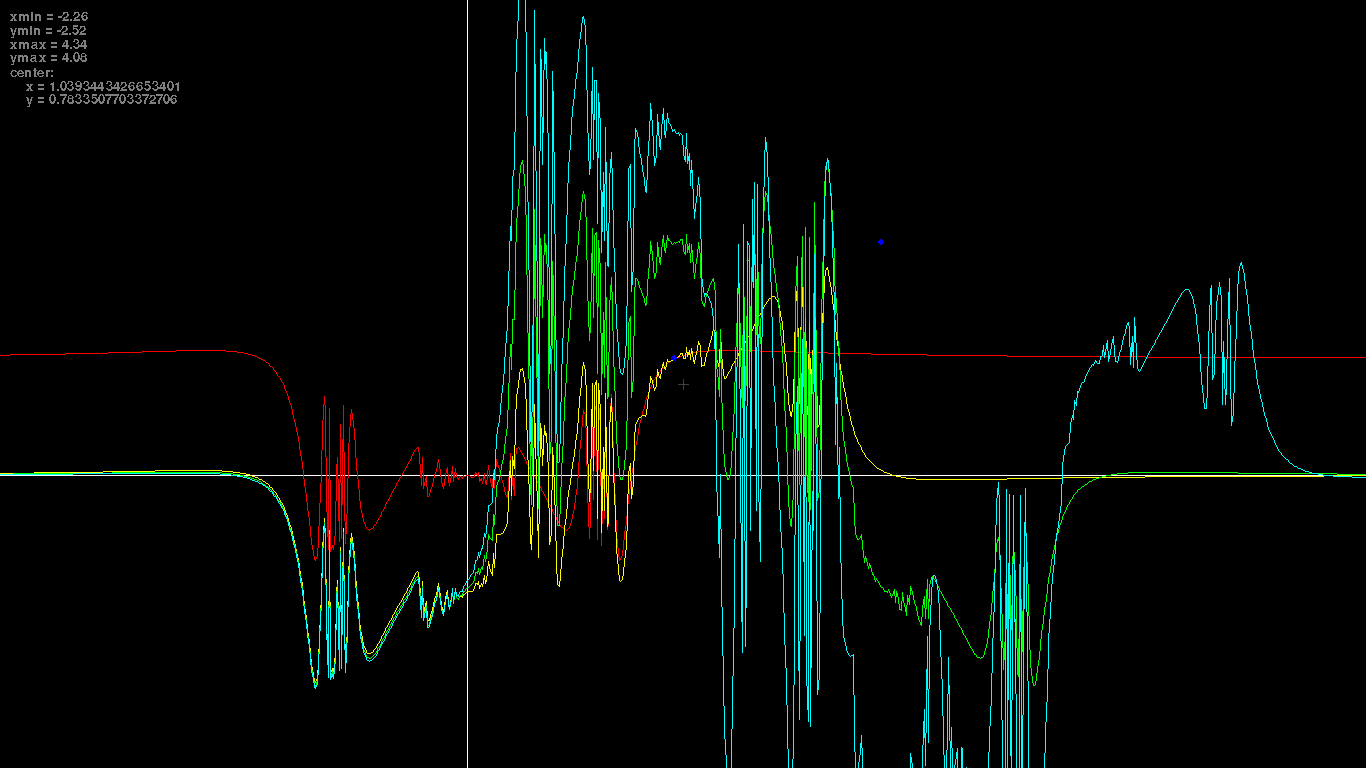
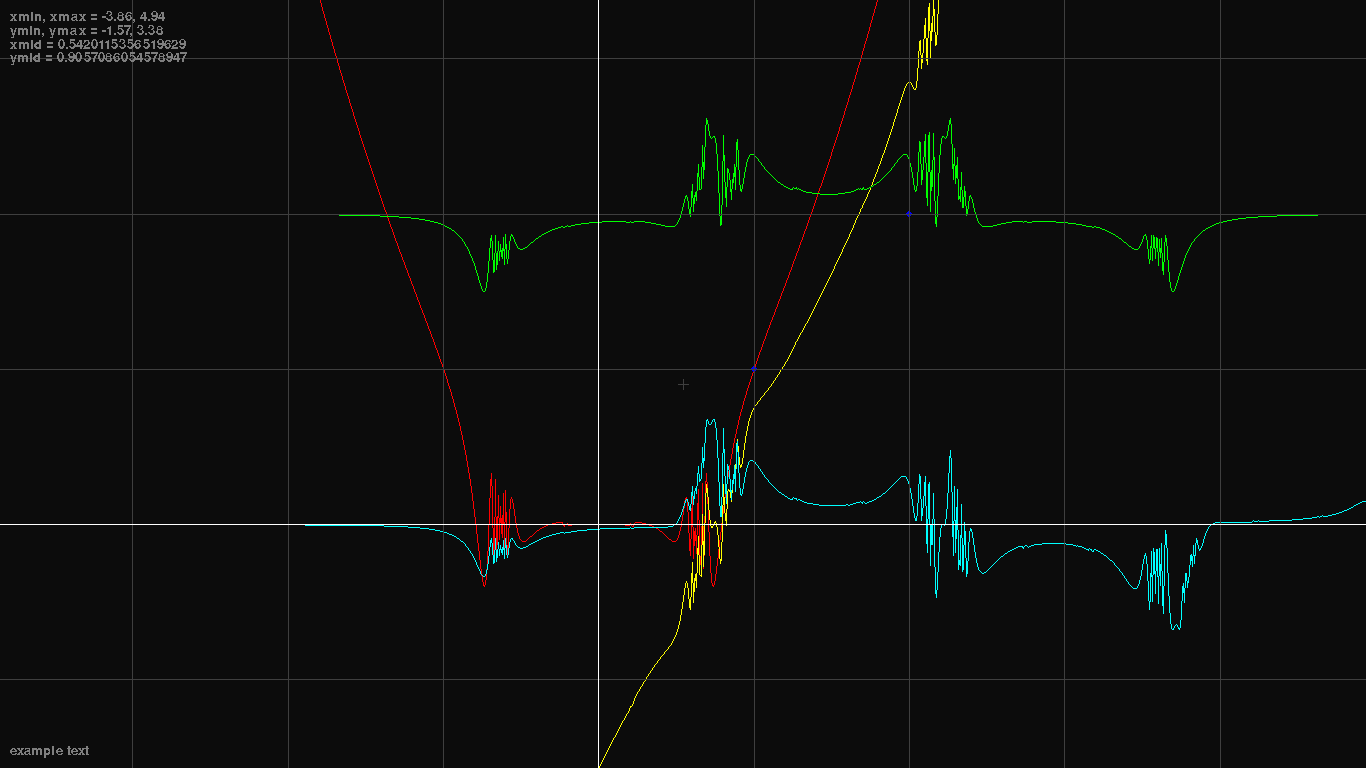
added __init__.py, updated screenshot and readme

diff --git a/__init__.py b/__init__.py
@@ -1,0 +1,1 @@
+from .simpleplot import Plotter

diff --git a/README.md b/README.md
@@ -2,4 +2,10 @@
 
 A simple plotting tool made with pygame.
 
+## Dependencies
+
+- pygame
+
+## Screenshot (example.py)
+
 <img src="https://raw.githubusercontent.com/jackiboi307/simpleplot/refs/heads/master/screenshot.png">
